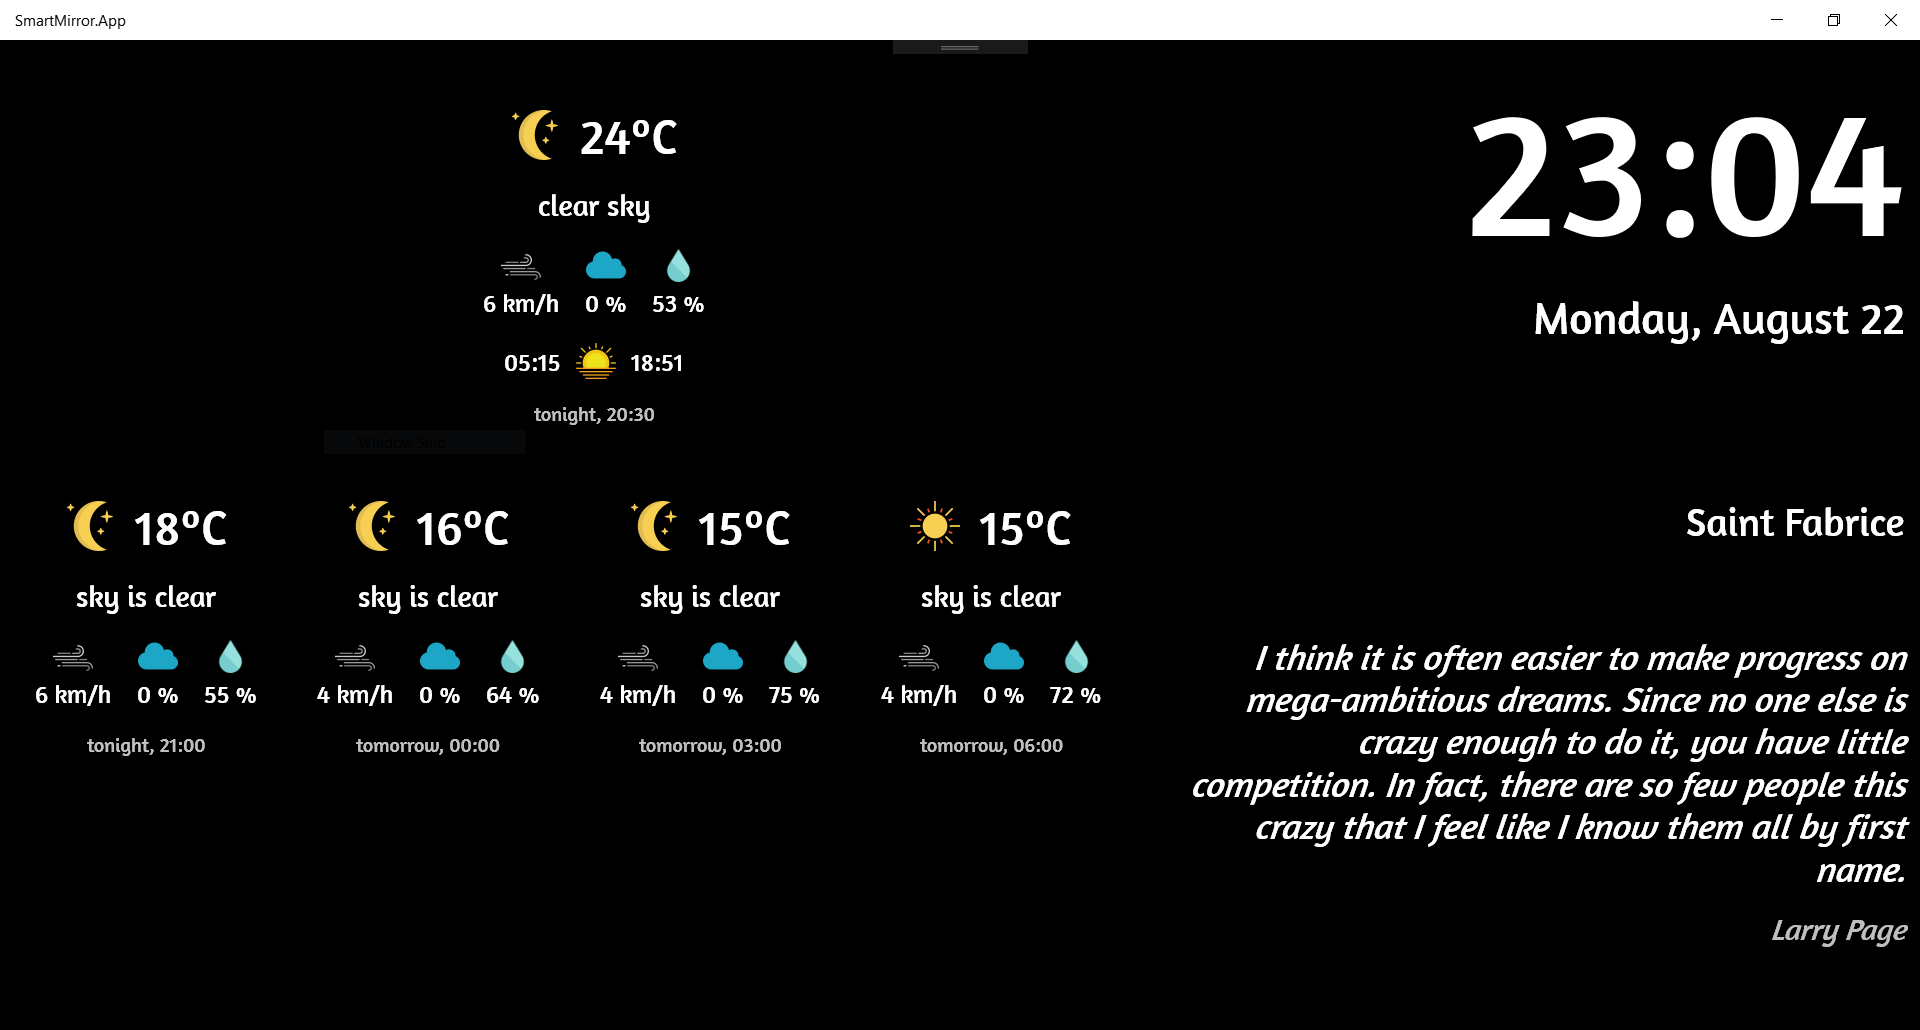
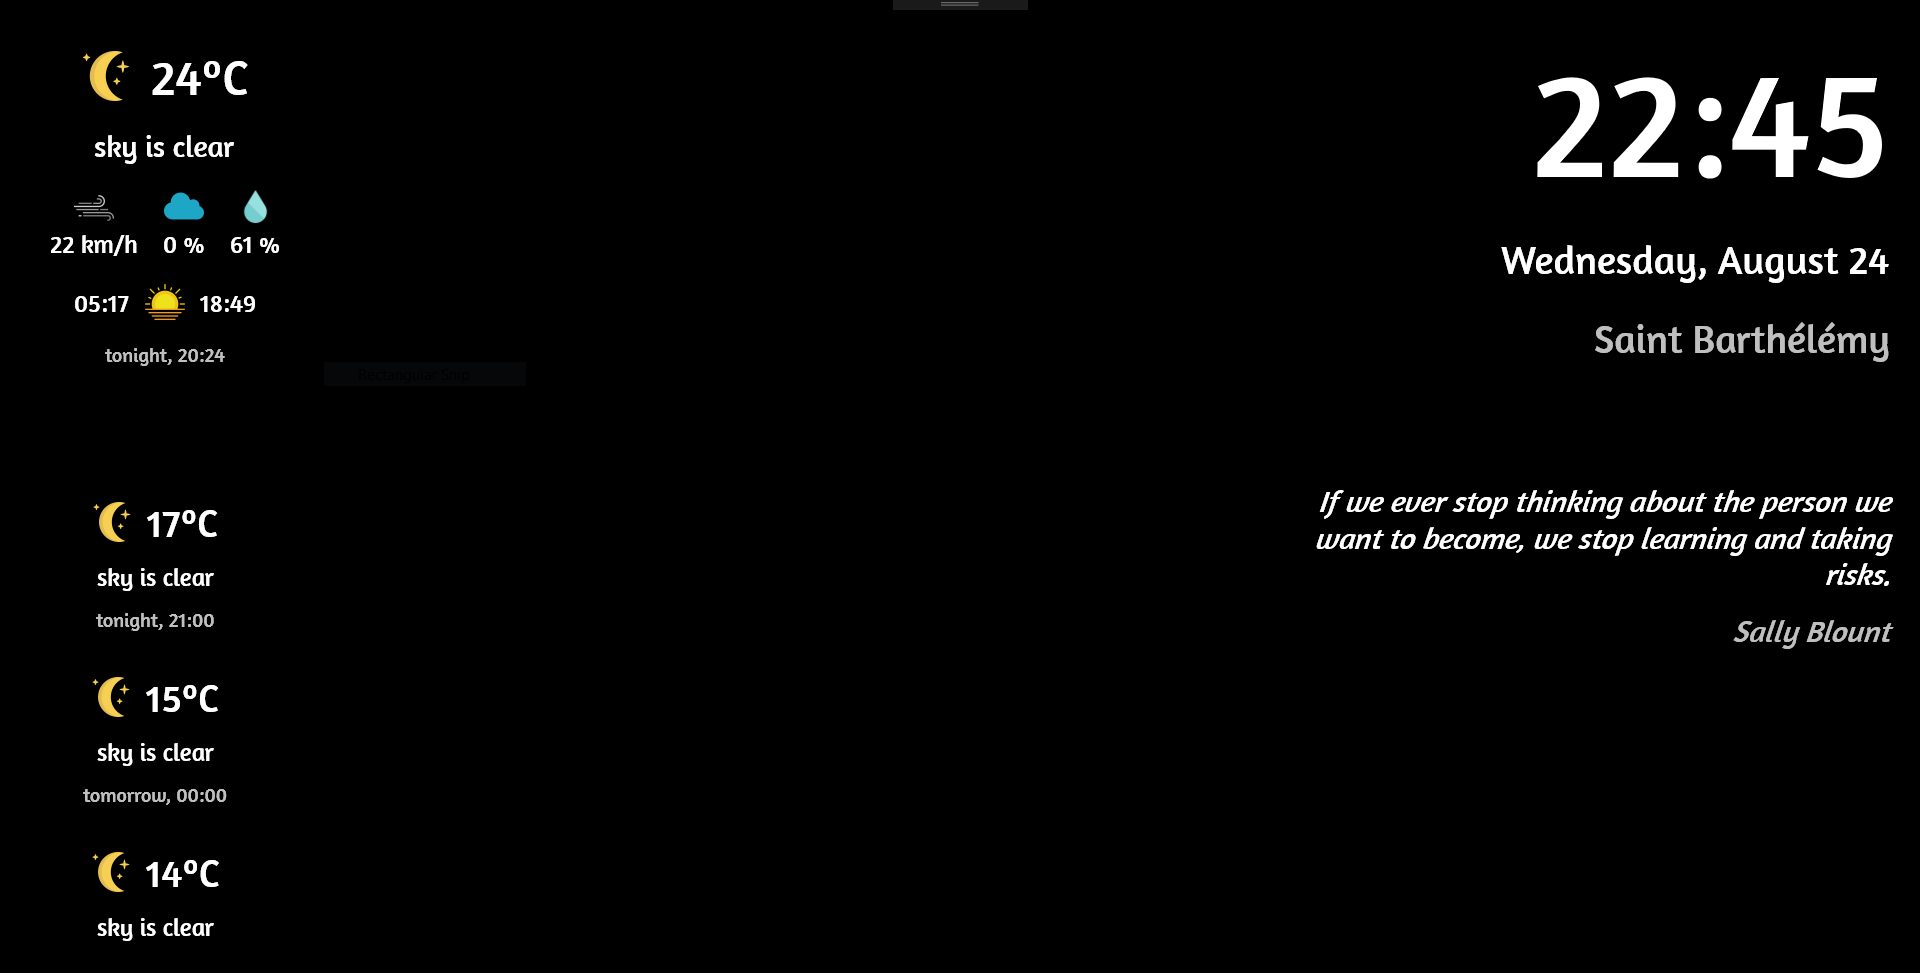
- fork weather metrics control in two controls, one detailed, one simple - ignore first weather forecast - tweak the layout of main page

diff --git a/SmartMirror.App/MainPage.xaml b/SmartMirror.App/MainPage.xaml
@@ -17,12 +17,6 @@
     <Page.Resources>
         <Clock:DateToTextConverter x:Key="DateToTextConverter" />
         <Clock:TimeToTextConverter x:Key="TimeToTextConverter" />
-        <Weather:IconNameToImageSourceConverter x:Key="IconNameToImageSourceConverter" />
-        <Weather:SunriseSunsetTimeTextConverter x:Key="SunriseSunsetTimeTextConverter" />
-        <Weather:CloudinessTextConverter x:Key="CloudinessTextConverter" />
-        <Weather:WindSpeedTextConverter x:Key="WindSpeedTextConverter" />
-        <Weather:DateTimeOffsetTextConverter x:Key="DateTimeOffsetTextConverter" />
-        <Weather:TemperatureTextConverter x:Key="TemperatureTextConverter" />
     </Page.Resources>
 
     <Page.DataContext>
@@ -31,43 +25,90 @@
 
     <Border Background="{ThemeResource ApplicationPageBackgroundThemeBrush}">
 
-        <Grid Margin="12">
-
-            <Grid.RowDefinitions>
-                <RowDefinition Height="Auto" />
-                <RowDefinition Height="*" />
-            </Grid.RowDefinitions>
+        <Grid Margin="24">
 
             <Grid.ColumnDefinitions>
-                <ColumnDefinition Width="Auto" />
+                <ColumnDefinition />
+                <ColumnDefinition />
                 <ColumnDefinition />
             </Grid.ColumnDefinitions>
 
-            <StackPanel Grid.Column="1">
-                <TextBlock
-                    HorizontalAlignment="Right"
-                    FontSize="148"
-                    Text="{Binding CurrentDateTime, Converter={StaticResource TimeToTextConverter}}" />
-                <TextBlock
-                    Margin="0,8,0,0"
-                    HorizontalAlignment="Right"
-                    FontSize="36"
-                    Text="{Binding CurrentDateTime, Converter={StaticResource DateToTextConverter}}" />
-            </StackPanel>
+            <Grid HorizontalAlignment="Left">
 
-            <StackPanel Grid.Row="1" Grid.Column="1">
+                <Grid.RowDefinitions>
+                    <RowDefinition Height="Auto" />
+                    <RowDefinition Height="72" />
+                    <RowDefinition Height="*" />
+                </Grid.RowDefinitions>
+
+                <controls:WeatherMetricsDetailedControl WeatherMetrics="{Binding CurrentWeatherMetrics}" />
+
+                <ListBox
+                    Grid.Row="2"
+                    HorizontalAlignment="Center"
+                    VerticalAlignment="Top"
+                    Background="{x:Null}"
+                    FontFamily="{Binding FontFamily, ElementName=page}"
+                    IsSynchronizedWithCurrentItem="False"
+                    ItemsSource="{Binding ForecastWeatherMetrics}">
+                    <ListBox.ItemContainerStyle>
+                        <Style TargetType="ListBoxItem">
+                            <Setter Property="Padding" Value="0,0,16,0" />
+                            <Setter Property="Template">
+                                <Setter.Value>
+                                    <ControlTemplate TargetType="ListBoxItem">
+                                        <Grid>
+                                            <ContentPresenter
+                                                Margin="{TemplateBinding Padding}"
+                                                Content="{TemplateBinding Content}"
+                                                ContentTemplate="{TemplateBinding ContentTemplate}" />
+                                        </Grid>
+                                    </ControlTemplate>
+                                </Setter.Value>
+                            </Setter>
+                        </Style>
+                    </ListBox.ItemContainerStyle>
+                    <ListBox.ItemTemplate>
+                        <DataTemplate>
+                            <controls:WeatherMetricsSimpleControl WeatherMetrics="{Binding}" />
+                        </DataTemplate>
+                    </ListBox.ItemTemplate>
+                    <ListBox.ItemsPanel>
+                        <ItemsPanelTemplate>
+                            <StackPanel Orientation="Vertical" />
+                        </ItemsPanelTemplate>
+                    </ListBox.ItemsPanel>
+                </ListBox>
+            </Grid>
+
+            <StackPanel Grid.Column="2">
+                <TextBlock
+                    HorizontalAlignment="Right"
+                    FontSize="124"
+                    Text="{Binding CurrentDateTime, Converter={StaticResource TimeToTextConverter}}" />
+
                 <TextBlock
                     Margin="0,16,0,0"
                     HorizontalAlignment="Right"
                     FontSize="32"
-                    Text="{Binding CurrentEphemeris}" />
+                    Text="{Binding CurrentDateTime, Converter={StaticResource DateToTextConverter}}" />
+
                 <TextBlock
-                    Margin="0,72,0,0"
+                    Margin="0,24,0,0"
                     HorizontalAlignment="Right"
-                    FontSize="28"
+                    Opacity="0.75"
+                    FontSize="32"
+                    Text="{Binding CurrentEphemeris}" />
+
+                <TextBlock
+                    Margin="0,96,0,0"
+                    HorizontalAlignment="Right"
+                    FontSize="24"
+                    FontStyle="Italic"
                     Text="{Binding QuoteOfTheDay.Text}"
                     TextAlignment="Right"
-                    TextWrapping="Wrap" FontStyle="Italic" />
+                    TextWrapping="Wrap" />
+
                 <TextBlock
                     Margin="0,16,0,0"
                     HorizontalAlignment="Right"
@@ -76,47 +117,6 @@
                     FontStyle="Italic"
                     Text="{Binding QuoteOfTheDay.Source}" />
             </StackPanel>
-
-            <controls:WeatherMetricsControl
-                Margin="0,24"
-                HorizontalAlignment="Center"
-                WeatherMetrics="{Binding CurrentWeatherMetrics}" />
-
-            <ListBox
-                Grid.Row="1"
-                VerticalAlignment="Top"
-                Background="{x:Null}"
-                FontFamily="{Binding FontFamily, ElementName=page}"
-                IsSynchronizedWithCurrentItem="False"
-                ItemsSource="{Binding ForecastWeatherMetrics}" Margin="0,0,24,0">
-                <ListBox.ItemContainerStyle>
-                    <Style TargetType="ListBoxItem">
-                        <Setter Property="Padding" Value="0,0,16,0" />
-                        <Setter Property="Template">
-                            <Setter.Value>
-                                <ControlTemplate TargetType="ListBoxItem">
-                                    <Grid>
-                                        <ContentPresenter
-                                            Margin="{TemplateBinding Padding}"
-                                            Content="{TemplateBinding Content}"
-                                            ContentTemplate="{TemplateBinding ContentTemplate}" />
-                                    </Grid>
-                                </ControlTemplate>
-                            </Setter.Value>
-                        </Setter>
-                    </Style>
-                </ListBox.ItemContainerStyle>
-                <ListBox.ItemTemplate>
-                    <DataTemplate>
-                        <controls:WeatherMetricsControl WeatherMetrics="{Binding}" />
-                    </DataTemplate>
-                </ListBox.ItemTemplate>
-                <ListBox.ItemsPanel>
-                    <ItemsPanelTemplate>
-                        <StackPanel Orientation="Horizontal" />
-                    </ItemsPanelTemplate>
-                </ListBox.ItemsPanel>
-            </ListBox>
 
         </Grid>
 

diff --git a/SmartMirror.App/Controls/WeatherMetricsSimpleControl.xaml b/SmartMirror.App/Controls/WeatherMetricsSimpleControl.xaml
@@ -1,0 +1,63 @@
+<UserControl
+    x:Class="SmartMirror.App.Controls.WeatherMetricsSimpleControl"
+    xmlns="http://schemas.microsoft.com/winfx/2006/xaml/presentation"
+    xmlns:x="http://schemas.microsoft.com/winfx/2006/xaml"
+    xmlns:Converters="using:SmartMirror.App.Converters"
+    xmlns:Weather="using:SmartMirror.App.Converters.Weather"
+    xmlns:d="http://schemas.microsoft.com/expression/blend/2008"
+    xmlns:local="using:SmartMirror.App.Controls"
+    xmlns:mc="http://schemas.openxmlformats.org/markup-compatibility/2006"
+    x:Name="me"
+    d:DesignHeight="200"
+    d:DesignWidth="400"
+    mc:Ignorable="d">
+
+    <UserControl.Resources>
+        <Weather:DateTimeOffsetTextConverter x:Key="DateTimeOffsetTextConverter" />
+        <Weather:TemperatureTextConverter x:Key="TemperatureTextConverter" />
+        <Weather:IconNameToImageSourceConverter x:Key="IconNameToImageSourceConverter" />
+    </UserControl.Resources>
+
+    <Grid
+        Margin="16"
+        d:DataContext="{d:DesignData /SampleData/WeatherMetricsSampleData.xaml}"
+        DataContext="{Binding WeatherMetrics, ElementName=me}">
+
+        <Grid.RowDefinitions>
+            <RowDefinition Height="Auto" />
+            <RowDefinition Height="Auto" />
+            <RowDefinition Height="Auto" />
+        </Grid.RowDefinitions>
+
+        <StackPanel
+            Grid.Row="0"
+            HorizontalAlignment="Center"
+            Orientation="Horizontal">
+            <Image
+                Height="32"
+                VerticalAlignment="Center"
+                Source="{Binding IconName, Converter={StaticResource IconNameToImageSourceConverter}}" />
+            <TextBlock
+                Margin="12,0,0,0"
+                VerticalAlignment="Center"
+                FontSize="32"
+                Text="{Binding Temp, Converter={StaticResource TemperatureTextConverter}}" />
+        </StackPanel>
+
+        <TextBlock
+            Grid.Row="1"
+            Margin="0,12"
+            HorizontalAlignment="Center"
+            FontSize="20"
+            Text="{Binding Description}" />
+
+        <TextBlock
+            Grid.Row="2"
+            HorizontalAlignment="Center"
+            Opacity="0.75"
+            FontSize="16"
+            Text="{Binding DateTime, Converter={StaticResource DateTimeOffsetTextConverter}}" />
+
+    </Grid>
+
+</UserControl>

diff --git a/SmartMirror.App/Controls/WeatherMetricsDetailedControl.xaml b/SmartMirror.App/Controls/WeatherMetricsDetailedControl.xaml
@@ -1,5 +1,5 @@
 <UserControl
-    x:Class="SmartMirror.App.Controls.WeatherMetricsControl"
+    x:Class="SmartMirror.App.Controls.WeatherMetricsDetailedControl"
     xmlns="http://schemas.microsoft.com/winfx/2006/xaml/presentation"
     xmlns:x="http://schemas.microsoft.com/winfx/2006/xaml"
     xmlns:Converters="using:SmartMirror.App.Converters"
@@ -110,8 +110,7 @@
             Grid.Row="3"
             Margin="0,0,0,16"
             HorizontalAlignment="Center"
-            Orientation="Horizontal"
-            Visibility="{Binding SunTimeAvailable, Converter={StaticResource BooleanToVisibilityConverter}}">
+            Orientation="Horizontal">
             <TextBlock
                 VerticalAlignment="Center"
                 FontSize="20"

diff --git a/SmartMirror.App/Models/Weather.cs b/SmartMirror.App/Models/Weather.cs
@@ -19,7 +19,7 @@ namespace SmartMirror.App.Models
         public DateTimeOffset DateTime { get; set; }
         public DateTimeOffset SunsetTime { get; set; }
         public DateTimeOffset SunriseTime { get; set; }
-        public bool SunTimeAvailable { get; set; } = true;
+        public bool Detailed { get; set; } = true;
         public string IconName { get; set; }
     }
 
@@ -89,7 +89,7 @@ namespace SmartMirror.App.Models
                     if (json["cod"].Value<int>() == 200)
                     {
                         TodayMetrics = new WeatherMetrics();
-                        TodayMetrics.Description = json["weather"][0]["description"].Value<string>();
+                        TodayMetrics.Description = json["weather"][0]["description"].Value<string>().ToLower();
                         TodayMetrics.Temp = json["main"]["temp"].Value<double>();
                         TodayMetrics.Humidity = json["main"]["humidity"].Value<int>();
                         TodayMetrics.WindSpeed = json["wind"]["speed"].Value<double>();
@@ -108,18 +108,15 @@ namespace SmartMirror.App.Models
                     if (json["cod"].Value<int>() == 200)
                     {
                         var count = Math.Min(_ResultCount, json["cnt"].Value<int>());
-                        for (int i = 0; i < count; i++)
+                        for (int i = 1; i < count; i++)
                         {
                             WeekForecasts.Add(new WeatherMetrics
                             {
                                 Temp = json["list"][i]["main"]["temp"].Value<double>(),
-                                Humidity = json["list"][i]["main"]["humidity"].Value<int>(),
-                                Description = json["list"][i]["weather"][0]["description"].Value<string>(),
-                                Cloudiness = json["list"][i]["clouds"]["all"].Value<int>(),
-                                WindSpeed = json["list"][i]["wind"]["speed"].Value<double>(),
+                                Description = json["list"][i]["weather"][0]["description"].Value<string>().ToLower(),
                                 DateTime = DateTimeOffset.FromUnixTimeSeconds(json["list"][i]["dt"].Value<long>()),
                                 IconName = json["list"][i]["weather"][0]["icon"].Value<string>(),
-                                SunTimeAvailable = false
+                                Detailed = false
                             });
                         }
                     }

diff --git a/SmartMirror.App/Controls/WeatherMetricsSimpleControl.xaml.cs b/SmartMirror.App/Controls/WeatherMetricsSimpleControl.xaml.cs
@@ -1,0 +1,27 @@
+using SmartMirror.App.Models;
+using Windows.ApplicationModel;
+using Windows.UI.Xaml;
+using Windows.UI.Xaml.Controls;
+
+// The User Control item template is documented at http://go.microsoft.com/fwlink/?LinkId=234236
+
+namespace SmartMirror.App.Controls
+{
+    public sealed partial class WeatherMetricsSimpleControl : UserControl
+    {
+        public WeatherMetricsSimpleControl()
+        {
+            this.InitializeComponent();
+        }
+
+        public WeatherMetrics WeatherMetrics
+        {
+            get { return (WeatherMetrics)GetValue(WeatherMetricsProperty); }
+            set { SetValue(WeatherMetricsProperty, value); }
+        }
+
+        public static readonly DependencyProperty WeatherMetricsProperty =
+            DependencyProperty.Register("WeatherMetrics", typeof(WeatherMetrics),
+                typeof(WeatherMetricsSimpleControl), new PropertyMetadata(null));
+    }
+}

diff --git a/SmartMirror.App/Controls/WeatherMetricsDetailedControl.xaml.cs b/SmartMirror.App/Controls/WeatherMetricsDetailedControl.xaml.cs
@@ -7,9 +7,9 @@ using Windows.UI.Xaml.Controls;
 
 namespace SmartMirror.App.Controls
 {
-    public sealed partial class WeatherMetricsControl : UserControl
+    public sealed partial class WeatherMetricsDetailedControl : UserControl
     {
-        public WeatherMetricsControl()
+        public WeatherMetricsDetailedControl()
         {
             this.InitializeComponent();
         }
@@ -22,6 +22,6 @@ namespace SmartMirror.App.Controls
 
         public static readonly DependencyProperty WeatherMetricsProperty =
             DependencyProperty.Register("WeatherMetrics", typeof(WeatherMetrics),
-                typeof(WeatherMetricsControl), new PropertyMetadata(null));
+                typeof(WeatherMetricsDetailedControl), new PropertyMetadata(null));
     }
 }
